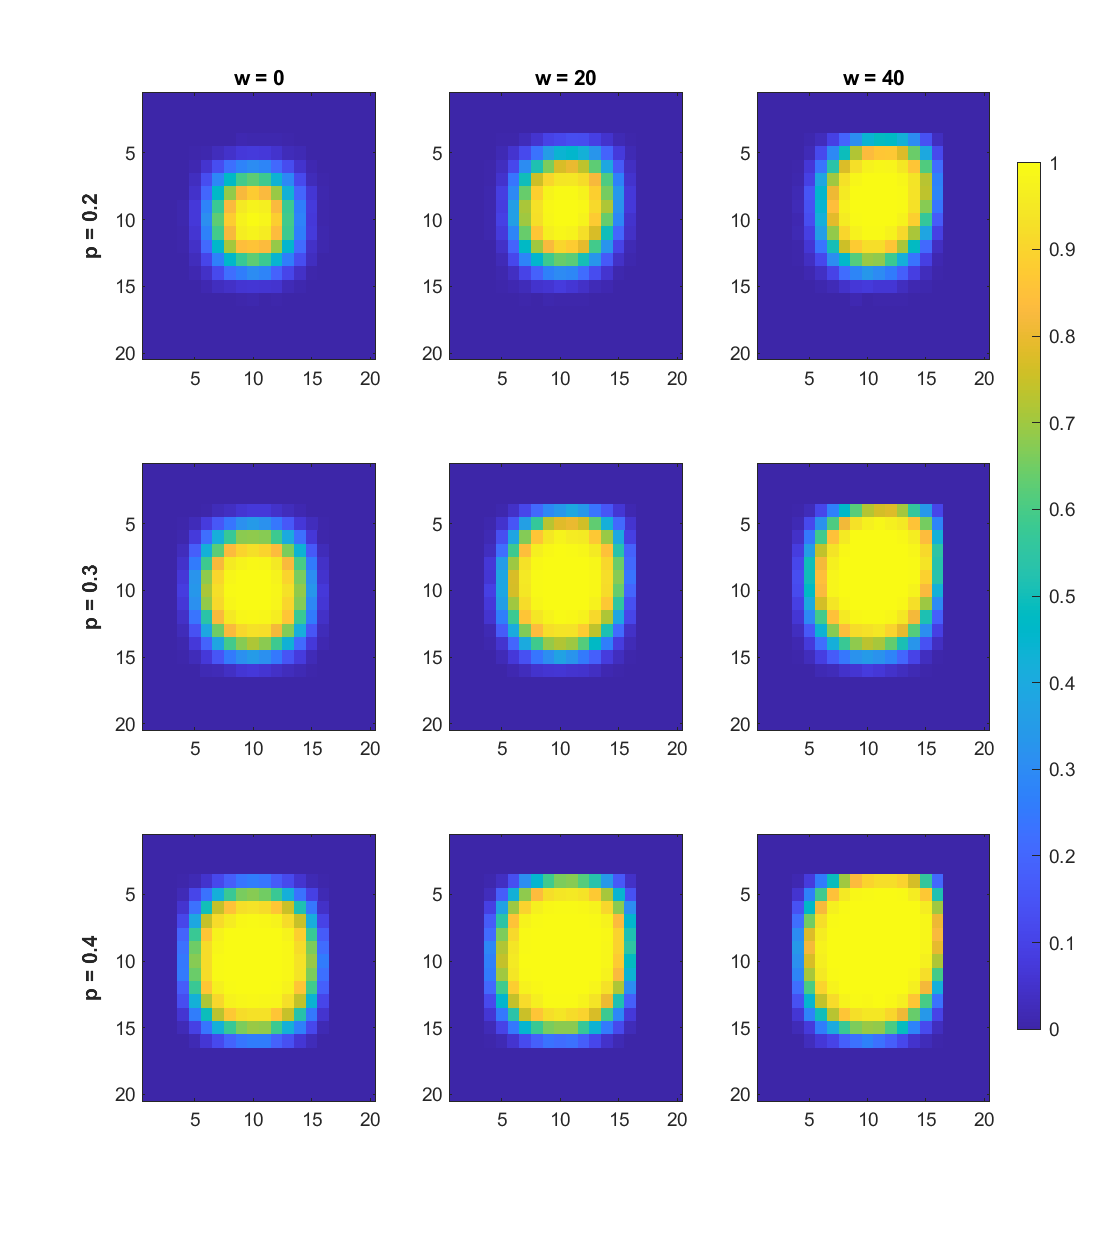
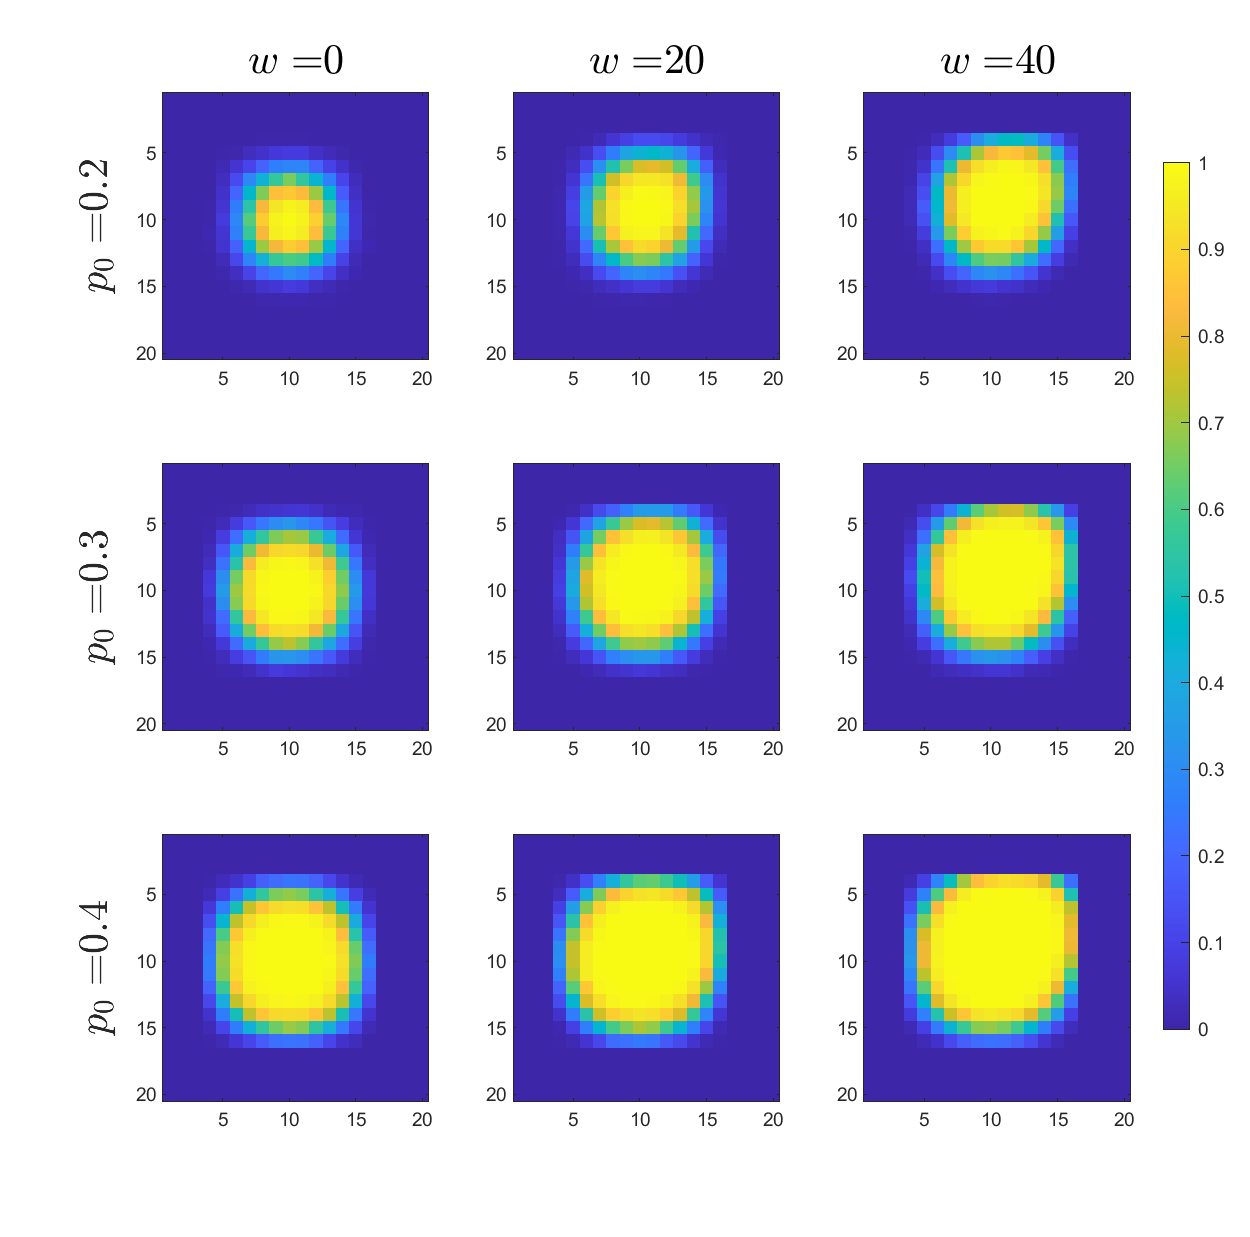
added files

diff --git a/wind/fire_driver_comp.m b/wind/fire_driver_comp.m
@@ -22,7 +22,7 @@ for b=1:3
     end
 end
 
-fig = figure('Position',[10,10,700,900]);
+fig = figure('Position',[10,10,800,800]);
 set(gca,'FontSize',20)
 for b=1:3
     for c=1:3
@@ -30,10 +30,10 @@ for b=1:3
         subplot(3,3,k,'Parent',fig);
         imagesc(M_mean(:,:,end,k));
         if b==1
-            title('w = ' + string(w(c)));
+            title('$w = $' + string(w(c)), 'Interpreter','latex', 'FontSize',20);
         end
         if c==1
-            yl = ylabel('p = ' + string(p(b)),'FontWeight','bold');
+            yl = ylabel('$p_0 = $' + string(p(b)),'FontSize', 20,'FontWeight','bold', Interpreter='latex');
             yl.Position(1) = yl.Position(1) - 1;
         end
     end

diff --git a/README.md b/README.md
@@ -1,6 +1,7 @@
-# Embers-Wind-and-Fire
-Report for a joint project in Applied Mathematics
+# Embers, Wind and Fire
+by Jasmine Tai and Ananthajit ("Ananth") Srikanth
 
+Report and for a joint project in Applied Mathematics. You can find the report in this repository, or [here](https://drive.google.com/file/d/13_ZaqgONs5WBLl_1vnZ-ieGU_eXFDKRk/view?usp=drive_link.) 
 
 # Sections
 
